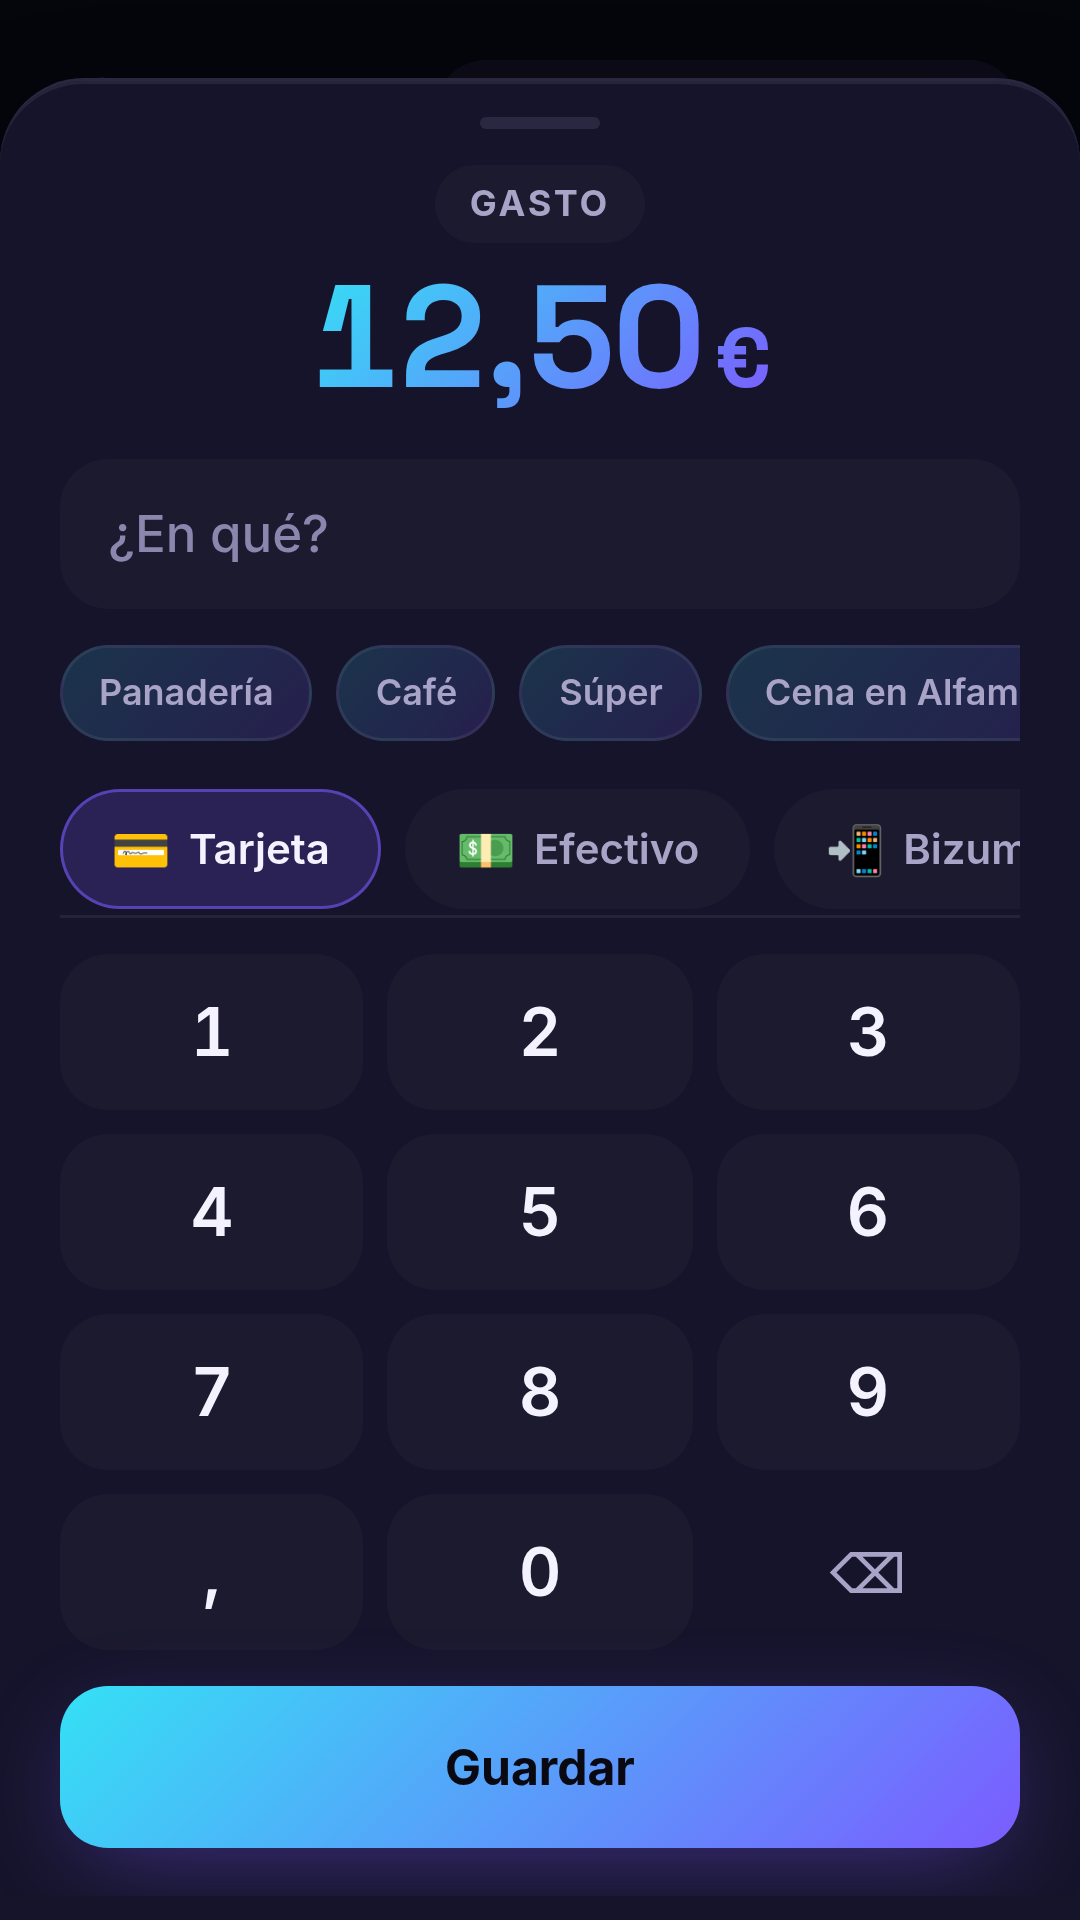
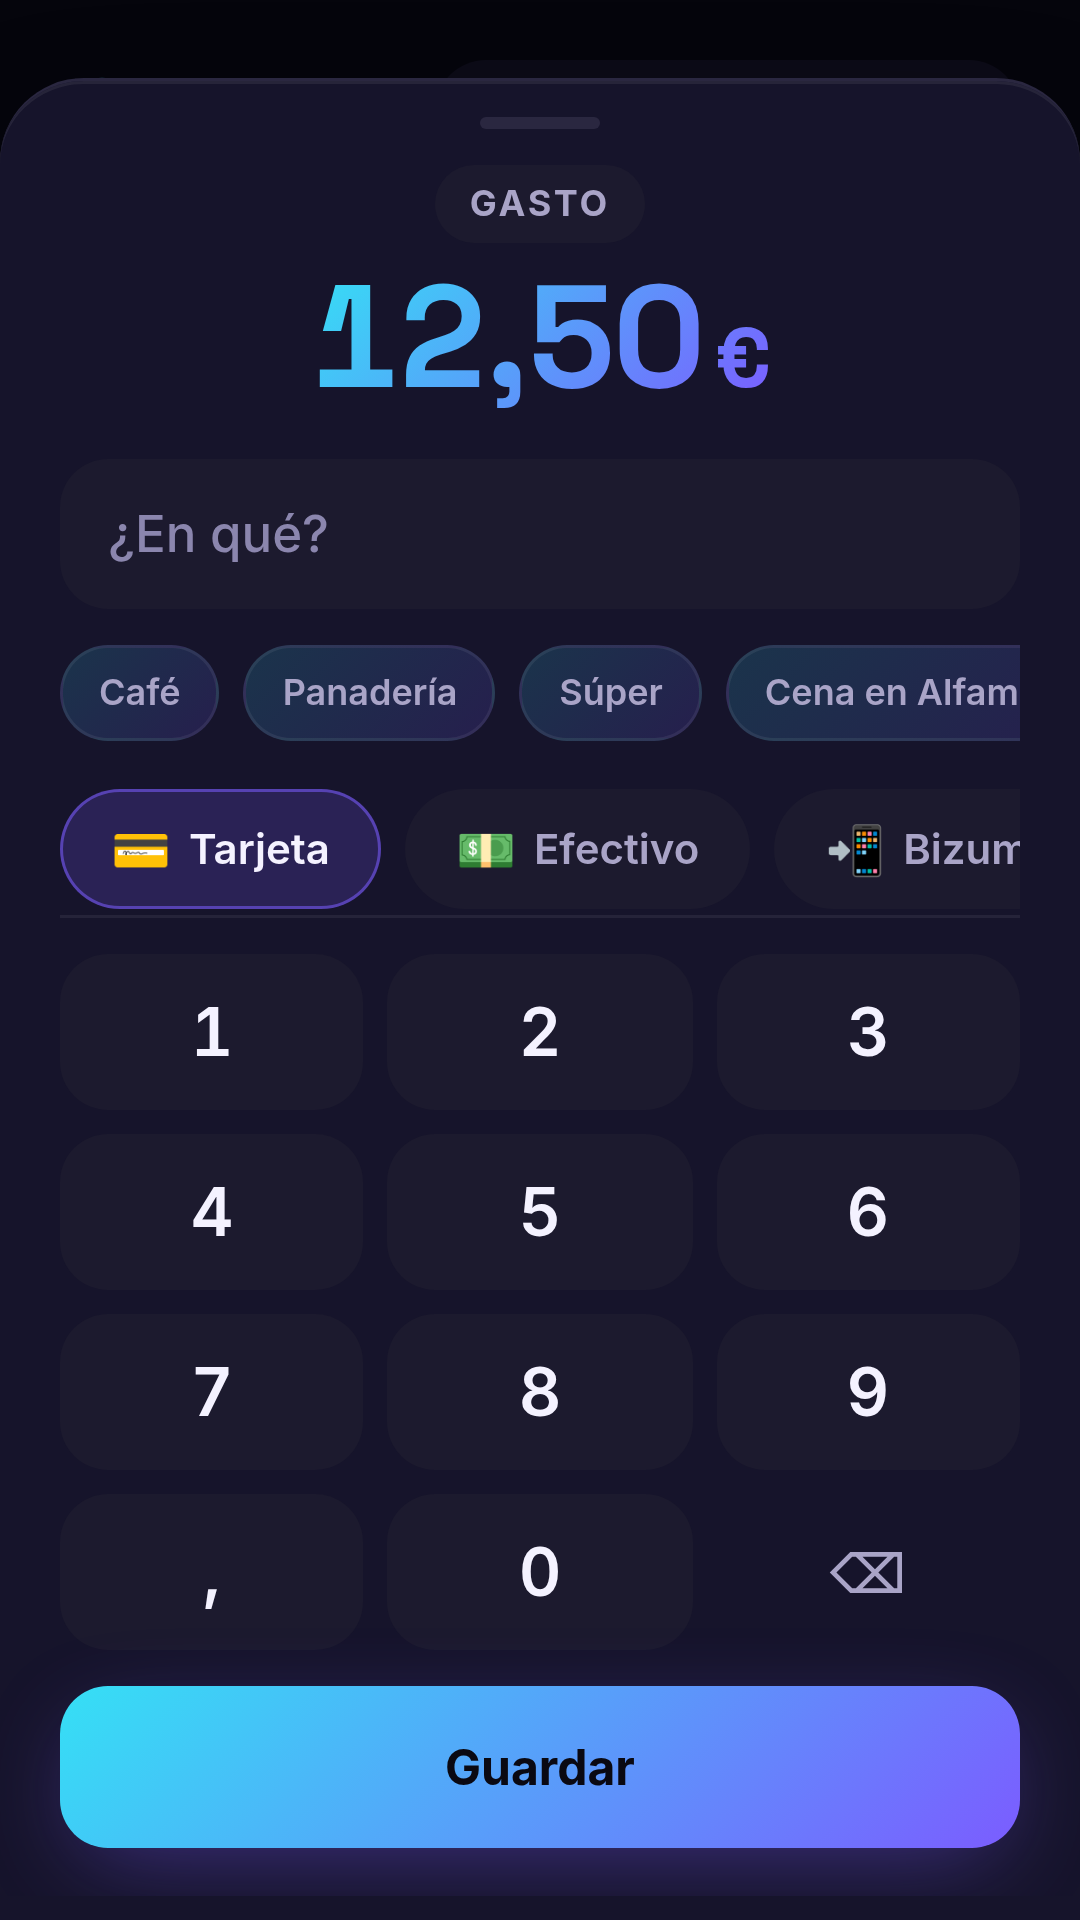
Módulo de tendencia por categoría y limpieza de código muerto
Añade "Cómo evoluciona cada cosa": las cuatro mayores categorías con su línea
de seis meses y la variación respecto al mes anterior. Responde a la pregunta
que ninguna otra gráfica contestaba —si algo se está desmadrando o si el mes
malo fue una excepción— y da uso al componente Sparkline, que estaba escrito
pero sin usar en ninguna pantalla.

Los porcentajes se acotan: partiendo de casi cero la variación se dispara y
deja de informar, así que por debajo de 5 € en el mes anterior se enseña
"nuevo" y por encima del mil por ciento se corta.

Elimina splitEvenly y sus pruebas: repartir una cuenta entre varias personas no
es parte de esta app y no había ninguna funcionalidad detrás.

Claude-Session: https://claude.ai/code/session_0182LyyELn69fVXtdnyFRDyr

Changed region(s): [[0.0917, 0.3125, 0.4278, 0.4062]]

diff --git a/src/features/stats/StatsScreen.tsx b/src/features/stats/StatsScreen.tsx
@@ -5,6 +5,7 @@ import { RankList } from '@/components/charts/RankList'
 import { Donut } from '@/components/charts/Donut'
 import { TrendLines } from '@/components/charts/TrendLines'
 import { CalendarHeat } from '@/components/charts/CalendarHeat'
+import { Sparkline } from '@/components/charts/Sparkline'
 import { MonthSwitcher } from '@/components/MonthSwitcher'
 import { ExpenseList } from '@/components/ExpenseList'
 import { useAppData } from '@/app/store'
@@ -35,6 +36,7 @@ import {
   type MonthKey,
 } from '@/lib/dates'
 import type { Expense } from '@/db/types'
+import type { Cents } from '@/lib/money'
 import './StatsScreen.css'
 
 /**
@@ -43,6 +45,22 @@ import './StatsScreen.css'
  * Una gráfica que no responde a una pregunta es decoración con coste.
  */
 const MONTHS_IN_HISTORY = 6
+
+/**
+ * Variación mes a mes en una columna estrecha.
+ *
+ * Partiendo de casi cero, el porcentaje se dispara y deja de informar: pasar
+ * de 2 € a 40 € es un +1900 % que sólo dice que antes no había nada. En ese
+ * caso se enseña "nuevo", y por encima de mil por ciento se corta para que la
+ * columna no se descuadre.
+ */
+function formatDelta(percent: number | null, previousCents: number): string {
+  if (percent === null) return 'nuevo'
+  if (previousCents < 500) return 'nuevo'
+  if (percent > 999) return '+999%'
+  if (percent < -999) return '−999%'
+  return `${percent > 0 ? '+' : ''}${percent.toFixed(0)}%`
+}
 
 export function StatsScreen({ onSelectExpense }: { onSelectExpense: (expense: Expense) => void }) {
   const { categoryById, methodById, spaceById, spaces } = useAppData()
@@ -94,6 +112,34 @@ export function StatsScreen({ onSelectExpense }: { onSelectExpense: (expense: Ex
       (key) => spaceById(key)?.name ?? 'Apartado'
     )
 
+    // Serie de seis meses por categoría: es lo que permite ver si una
+    // categoría se está desmadrando o si el mes malo fue una excepción.
+    const months6 = lastMonths(MONTHS_IN_HISTORY, month)
+    const perCategory = new Map<string, Map<MonthKey, Cents>>()
+    for (const expense of historyExpenses ?? []) {
+      if (expense.kind !== 'expense') continue
+      let byMonthKey = perCategory.get(expense.categoryId)
+      if (!byMonthKey) {
+        byMonthKey = new Map()
+        perCategory.set(expense.categoryId, byMonthKey)
+      }
+      const key = toMonthKey(expense.day)
+      byMonthKey.set(key, (byMonthKey.get(key) ?? 0) + expense.amountCents)
+    }
+
+    const trends = categories.slice(0, 4).map((item) => {
+      const byMonthKey = perCategory.get(item.key) ?? new Map<MonthKey, Cents>()
+      const series: Bucket[] = months6.map((key) => ({
+        key,
+        label: formatMonthAbbr(key),
+        cents: byMonthKey.get(key) ?? 0,
+        count: 0,
+      }))
+      const current = series.at(-1)?.cents ?? 0
+      const previous = series.at(-2)?.cents ?? 0
+      return { ...item, series, delta: percentChange(current, previous) }
+    })
+
     const daily = dailySeries(list, range.from, range.to)
     const previousDaily = dailySeries(previousExpenses ?? [], previousRange.from, previousRange.to)
     const isCurrent = month === currentMonthKey()
@@ -116,6 +162,7 @@ export function StatsScreen({ onSelectExpense }: { onSelectExpense: (expense: Ex
       methods,
       spacesRank,
       daily,
+      trends,
       averageLine: rollingAverage(daily, 7),
       aligned: alignedCumulative(daily, previousDaily, throughDay),
       top: biggest(list),
@@ -249,6 +296,40 @@ export function StatsScreen({ onSelectExpense }: { onSelectExpense: (expense: Ex
                 </header>
                 <ExpenseList expenses={focusedExpenses} onSelect={onSelectExpense} showSpace />
               </section>
+            )}
+
+            {data.trends.some((trend) => trend.series.some((point) => point.cents > 0)) && (
+              <ChartFrame
+                title="Cómo evoluciona cada cosa"
+                hint={`Tus ${data.trends.length} mayores categorías, últimos ${MONTHS_IN_HISTORY} meses`}
+                summary={`Evolución de las mayores categorías en los últimos ${MONTHS_IN_HISTORY} meses.`}
+                data={data.categories.slice(0, 4)}
+              >
+                <ul className="trends">
+                  {data.trends.map((trend) => (
+                    <li key={trend.key} className="trends-row">
+                      <span className="trends-name">
+                        {categoryById(trend.key)?.emoji} {trend.label}
+                      </span>
+                      <Sparkline
+                        data={trend.series}
+                        color={`var(--space-${categoryById(trend.key)?.colorIndex ?? 0})`}
+                      />
+                      <span
+                        className={`trends-delta ${
+                          trend.delta === null
+                            ? ''
+                            : trend.delta > 0
+                              ? 'trends-delta--up'
+                              : 'trends-delta--down'
+                        }`}
+                      >
+                        {formatDelta(trend.delta, trend.series.at(-2)?.cents ?? 0)}
+                      </span>
+                    </li>
+                  ))}
+                </ul>
+              </ChartFrame>
             )}
 
             {data.methods.length > 0 && (

diff --git a/src/features/stats/StatsScreen.css b/src/features/stats/StatsScreen.css
@@ -63,3 +63,54 @@
   font-weight: 700;
   letter-spacing: -0.03em;
 }
+
+/* --- Tendencia por categoría ---------------------------------------------- */
+
+.trends {
+  display: flex;
+  flex-direction: column;
+  gap: var(--sp-1);
+}
+
+.trends-row {
+  display: flex;
+  align-items: center;
+  gap: var(--sp-3);
+  height: 40px;
+  padding: 0 var(--sp-2);
+  border-radius: var(--r-sm);
+}
+
+.trends-row:nth-child(odd) {
+  background: var(--surface-2);
+}
+
+.trends-name {
+  flex: 1;
+  min-width: 0;
+  font-size: var(--text-sm);
+  font-weight: 600;
+  overflow: hidden;
+  text-overflow: ellipsis;
+  white-space: nowrap;
+}
+
+.trends-delta {
+  flex-shrink: 0;
+  min-width: 46px;
+  text-align: right;
+  font-size: var(--text-xs);
+  font-weight: 700;
+  font-variant-numeric: tabular-nums;
+  color: var(--text-faint);
+}
+
+/* Gastar más es rojo y gastar menos es verde: al revés de lo que diría la
+   intuición bursátil, pero es lo que significa en una app de gastos. */
+.trends-delta--up {
+  color: var(--danger);
+}
+
+.trends-delta--down {
+  color: var(--positive);
+}

diff --git a/src/lib/__tests__/money.test.ts b/src/lib/__tests__/money.test.ts
@@ -1,5 +1,5 @@
 import { describe, expect, it } from 'vitest'
-import { formatMoney, parseAmount, percentChange, splitEvenly, sum } from '../money'
+import { formatMoney, parseAmount, percentChange } from '../money'
 import { applyKey } from '../keypad'
 
 describe('parseAmount', () => {
@@ -36,15 +36,6 @@ describe('formatMoney', () => {
     expect(formatMoney(123450)).toMatch(/^1\.234,50/)
     expect(formatMoney(1234567)).toMatch(/^12\.345,67/)
     expect(formatMoney(0)).toMatch(/^0,00/)
-  })
-})
-
-describe('splitEvenly', () => {
-  it('reparte sin perder ni inventar céntimos', () => {
-    expect(splitEvenly(100, 3)).toEqual([34, 33, 33])
-    expect(sum(splitEvenly(100, 3))).toBe(100)
-    expect(sum(splitEvenly(1, 4))).toBe(1)
-    expect(splitEvenly(10, 0)).toEqual([])
   })
 })
 

diff --git a/src/lib/money.ts b/src/lib/money.ts
@@ -77,14 +77,6 @@ export function parseAmount(input: string): Cents | null {
   return Math.round(value * 100)
 }
 
-/** Reparto de un total en n partes sin perder céntimos por redondeo. */
-export function splitEvenly(total: Cents, parts: number): Cents[] {
-  if (parts <= 0) return []
-  const base = Math.floor(total / parts)
-  const remainder = total - base * parts
-  return Array.from({ length: parts }, (_, i) => base + (i < remainder ? 1 : 0))
-}
-
 export function sum(values: Cents[]): Cents {
   return values.reduce((acc, v) => acc + v, 0)
 }
